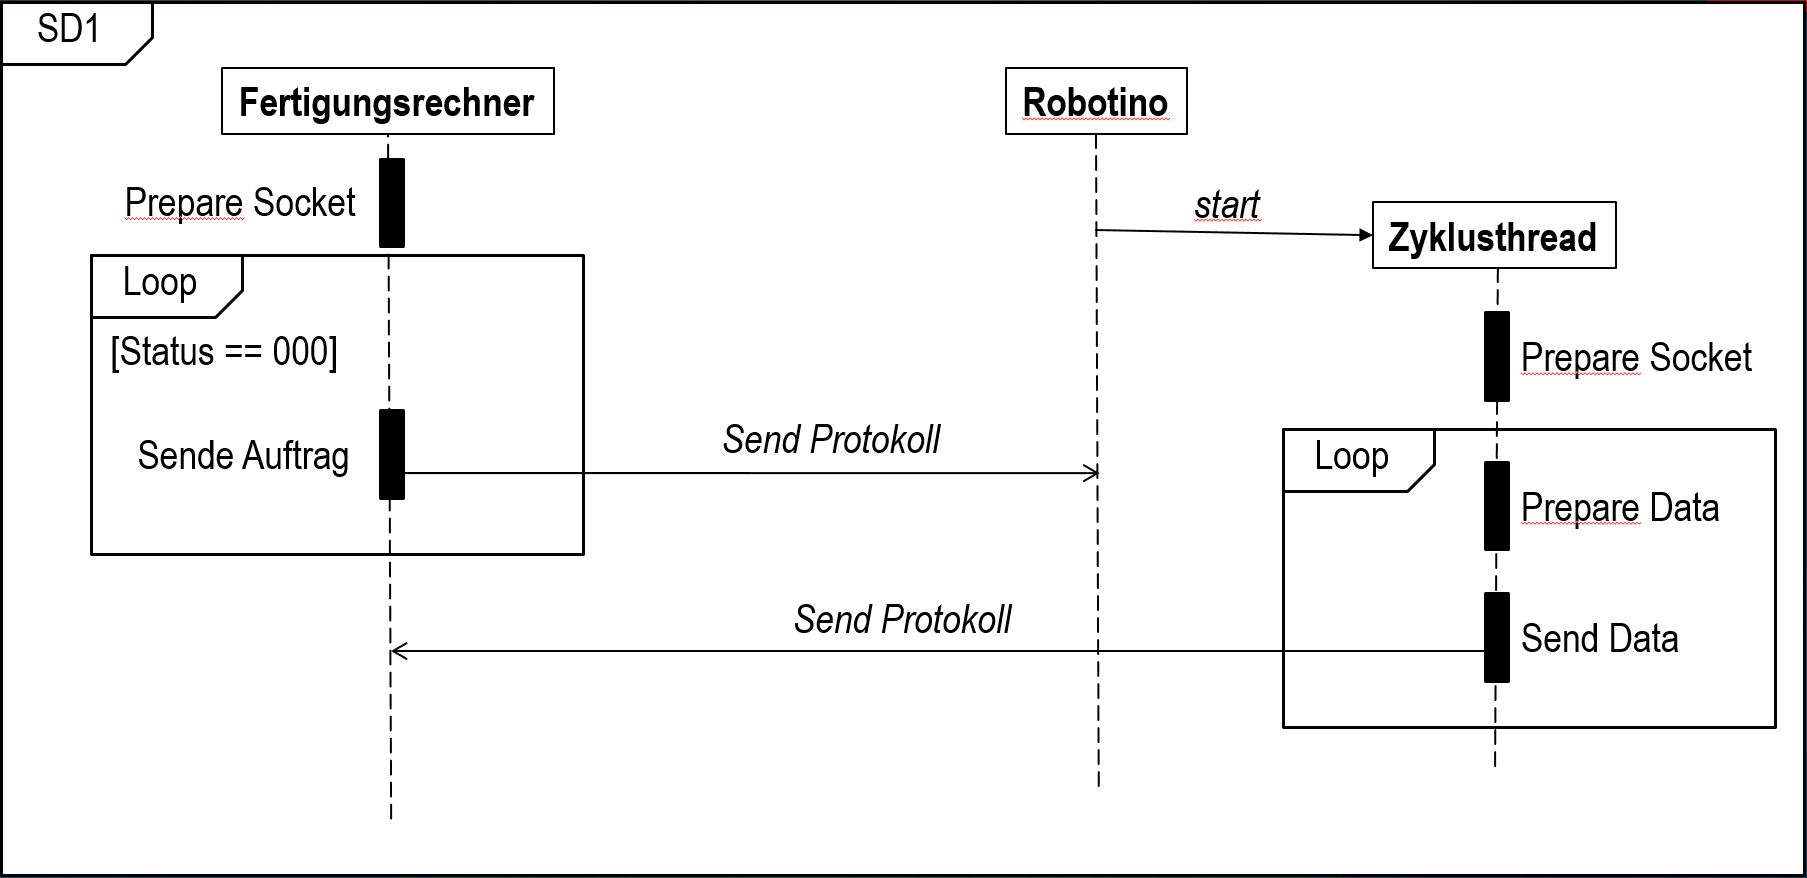
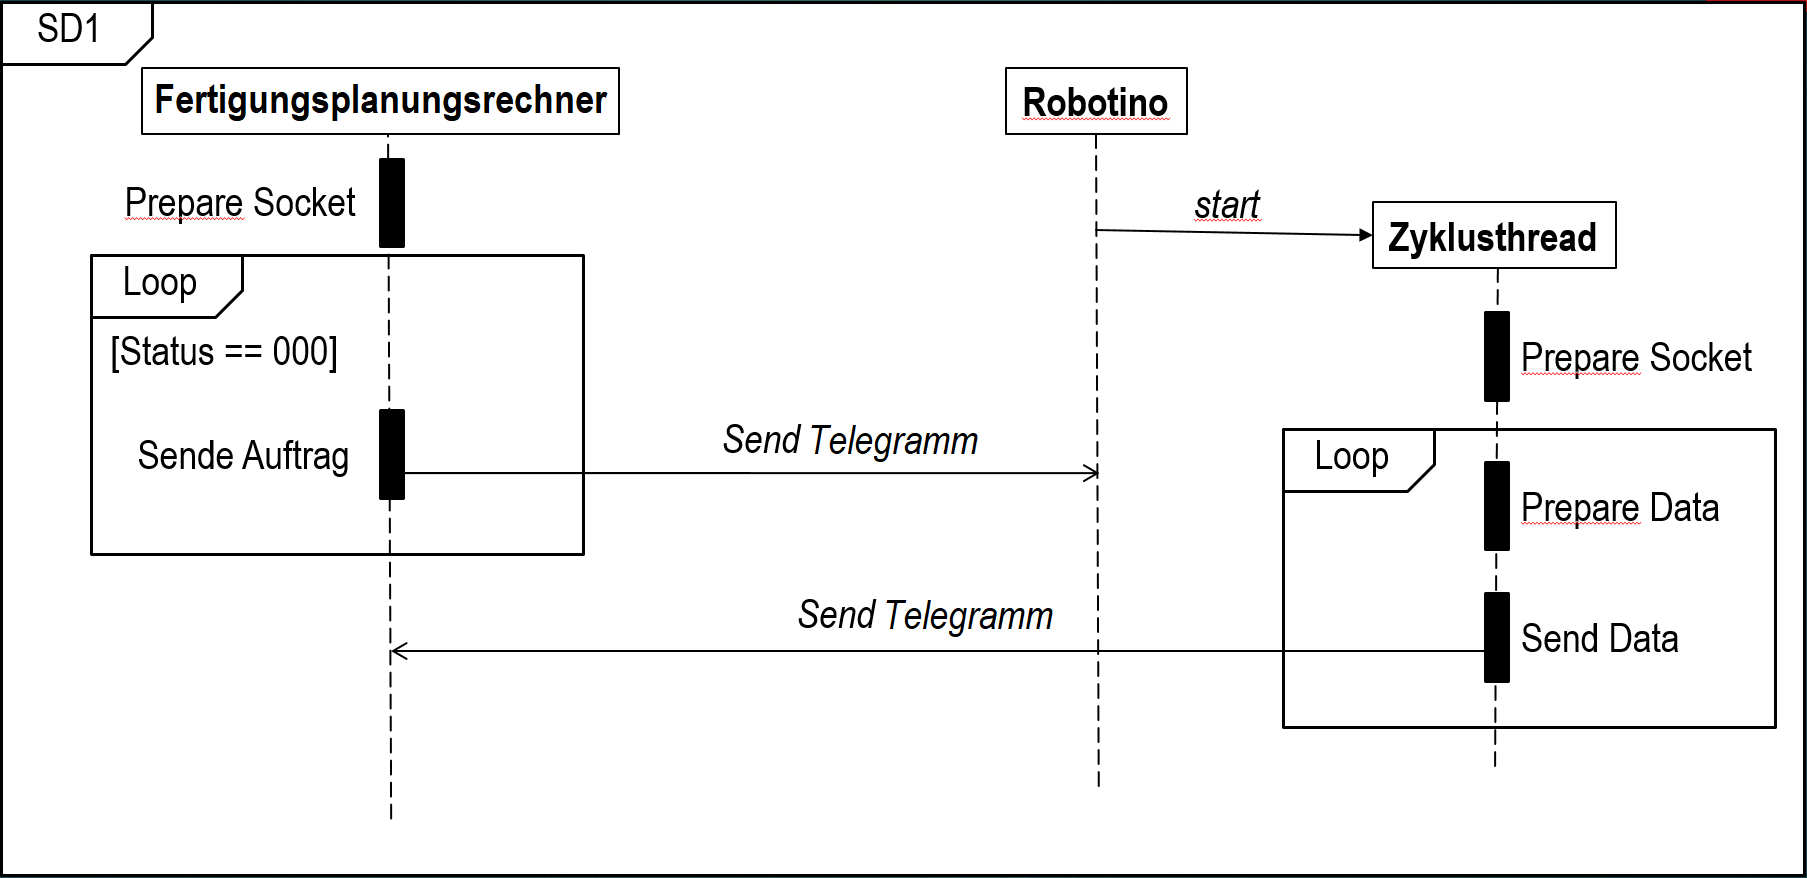
Telegramm und Sequenzdiagramm Gewerk 2 beschrieben

Changed region(s): [[0.062, 0.0923, 0.3409, 0.1538], [0.4339, 0.6765, 0.5888, 0.738], [0.4339, 0.492, 0.5578, 0.5228]]

diff --git a/Latex/chapters/Schnittstellen.tex b/Latex/chapters/Schnittstellen.tex
@@ -3,14 +3,37 @@
 \chapter{Schnittstellen}
 \label{sec:Schnittstellen}
 
-Schnittstellen
+\inlinetodo{Schnittstellen}
 
-\section{Kommunikation zu Gewerk 2}
-
-
+\section{Kommunikation zu Robotinos}
 \label{sec:Gewerk2Protokoll}
 
-Robotererrortypen beschreiben
+Die Robotinos werden von Gewerk 2 verwaltet und programmiert. Um eine erfolgreiche Kommunikation zwischen Fertigungsplanungsrechner und Robotino zu gewährleisten existieren folgende Vereinbarungen mit Gewerk 2.
+
+\subsection{Sequenzdiagramm}
+\label{sec:sequenzdiagram}
+
+Zunächst wurde eine Struktur entwickelt, in der beschrieben wird, wie die Daten zwischen Robotino und Fertigungsplanungsrechner ausgetauscht werden sollen. Dies wurde anschließend in einem Sequenzdiagramm, Abbildung \ref{fig:Sequenzdiagramm}, dargestellt. 
+
+\begin{figure}[htb]
+    \centering
+    \includegraphics[width=0.9\textwidth]{Abbildungen/Sequenzdiagramm.PNG}
+    \caption{Sequenzdiagramm}		
+    \label{fig:Sequenzdiagramm}
+\end{figure}
+
+Dem Sequenzdiagramm ist zu entnehmen, dass der Robotino nach Programmstart zyklisch Daten sendet. Die Zykluszeit beträgt 100 ms. Da die Daten über UDP an einen spezifizierten Port versendet werden ist ein Empfänger nicht zwangsweise erforderlich und die Programme können unabhängig voneinander laufen. Der Inhalt der Daten ist in Abschnitt \ref{sec:Telegramme} beschrieben. Solange der Robotino läuft werden die Daten gesendet. Dadurch kann auch ein Ausfall der Kommunikation festgestellt werden. 
+
+Auf Seiten des Fertigungsplanungsrechners wird nur bei Bedarf ein Sendevorgang eingeleitet. Erst wenn ein Auftrag an den Robotino gesendet werden soll wird eine Schleife ausgeführt. In der Schleife wird der Auftrag zyklisch an den Robotino gesendet. Die Zykluszeit beträgt hierbei 700 ms. In Kapitel \ref{sec:StateMachineImplementierung} ist die in einer State-Machine implementierte Schleife beschrieben. Die Schleife kann durch Empfangen einer Statusänderung des Robotinos verlassen werden. Dadurch wird eine erfolgreiche Übertragung des Auftrags sichergestellt werden. Die im Auftrag befindlichen Daten sind in Abschnitt \ref{sec:Telegramme} näher erläutert.
+
+\subsection{Telegramme}
+\label{sec:Telegramme}
+
+Die Telegramme zwischen Robotino und Fertigungsplanungsrechner bestehen aus einer festgelegten Struktur. Dabei ist sowohl die Länge der Telegramme als auch der Inhalt festgeschrieben. In beiden Telegrammen werden Double-Werte in einem Byte versendet. Jedes Byte muss daher kodiert und dekodiert werden. 
+
+\subsubsection{Telegramm vom Fertigungsplanungsrechner zu Gewerk 2}
+
+Der Auftrag, der an den Robotino gesendet wird, enthält 5 Bytes. Eine Aufschlüsselung ist in Tabelle \ref{tab:TelegrammZuG2} dargestellt. 
 
 \begin{table}[!ht]
 	\centering
@@ -28,6 +51,16 @@ Robotererrortypen beschreiben
 	\caption{Telegramm zu Gewerk 2}
 	\label{tab:TelegrammZuG2}
 \end{table}
+
+Das erste Byte klassifiziert die Auftragsart. Diese beschreibt, welche Tätigkeit der Robotino als nächstes tun soll. Auftragsart eins bedeutet, dass der Robotino einen Transportauftrag erhalten hat, also ein Werkstück von einer Position zu einer anderen Position fahren soll. Die Auftragsart 2 zeigt an, dass der Robotino auf einen Parkplatz geschickt wird. Eine Ladefahrt wird mit Auftragsart 3 gekennzeichnet. 
+
+Im zweiten und dritten Byte sind die Positionen angegeben, an welche sich der Robotino bewegen soll. Dabei wird Position 2 nur bei Auftragsart 1 befüllt bzw. ausgewertet, da ein Parken und Laden nur eine Zielposition benötigt. Bei Auftragsart 1 jedoch zeigt Position 1 den Arbeitsplatz an, wo das Werkstück abgeholt werden soll und Position 2 den Ablageort des Werkstücks. 
+
+Über das vierte Byte kann dem Robotino ein Status-Flag gesendet werden. Sobald der Robotino eine Anfrage zu dem Flag sendet wird eine 1 zurückgesendet. Ansonsten ist der Wert 0. Damit kann der Robotino die Funktionalität der Kommunikation validieren.
+
+Mit dem fünften Byte wird eine einfache Erweiterung des Telegramms ermöglicht, sofern mehr Daten übertragen werden sollen. Am Anfang der Ausarbeitung des Projektes war das vierte Byte ebenfalls ein reserviertes Byte. 
+
+\subsubsection{Telegramm von Gewerk 2 zum Fertigungsplanungsrechner}
 
 %00: nichts; 01: unbekanntes Hindernis; 
 %02: anderer Roboter; 03: direkt was gesehen?!? (flackert evtl)
@@ -56,6 +89,8 @@ Robotererrortypen beschreiben
 	\label{tab:TelegrammVonG2}
 \end{table}
 
+Robotererrortypen beschreiben
+
 \begin{figure}[htb]
     \centering
     \includegraphics[width=0.9\textwidth]{Abbildungen/Positionskodierung.PNG}
@@ -65,20 +100,10 @@ Robotererrortypen beschreiben
 
 Positionskodierung
 
-\subsection{Sequenzdiagramm}
-\label{sec:sequenzdiagram}
-
-\begin{figure}[htb]
-    \centering
-    \includegraphics[width=0.9\textwidth]{Abbildungen/Sequenzdiagramm.PNG}
-    \caption{Sequenzdiagramm}		
-    \label{fig:Sequenzdiagramm}
-\end{figure}
-
-\inlinetodo{Sequenzdiagramm Kommunikation}
 \inlinetodo{Telegram Gewerk 2}
 
 \inlinetodo{Port vereinbarung}
+
 \subsection{Fehlertypen und Behebung}
 \label{sec:Error}
 
